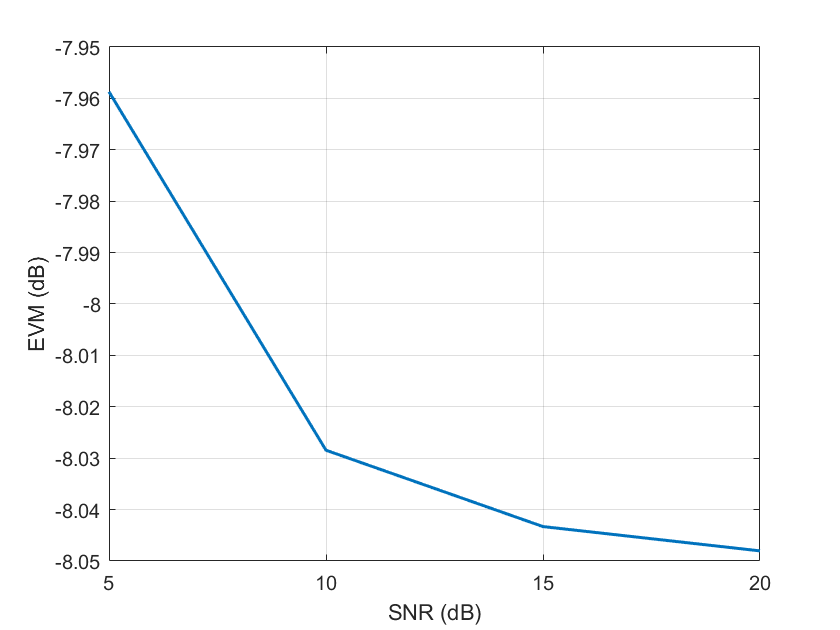
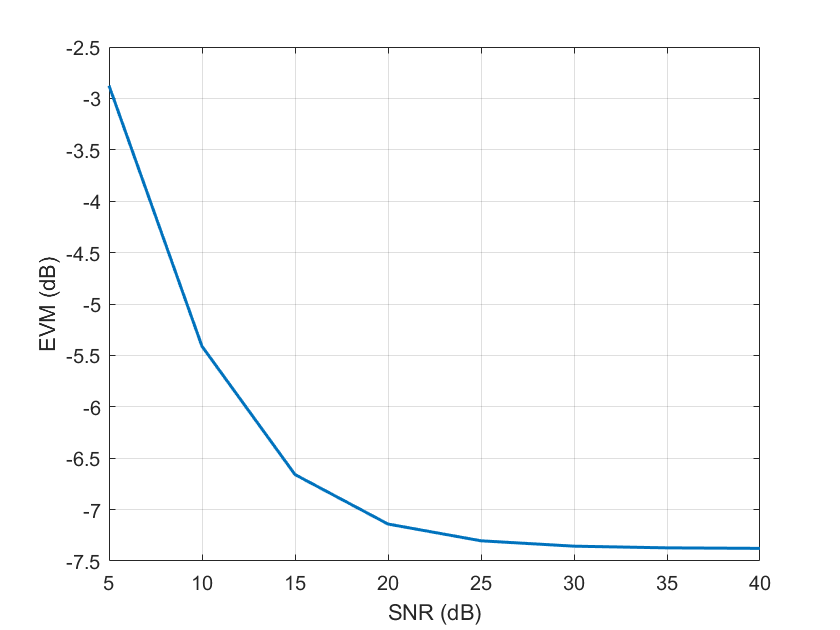
Throwing some shit in question 5

diff --git a/5/lab_report.tex b/5/lab_report.tex
@@ -249,24 +249,45 @@ Next, we analyze the performance of the timing compensation logic when we apply 
 \end{figure}
 
 \noindent Before timing compensation, the constellation does not match closely with our expectations for BPSK modulation. However, after timing compensation, all the received data is clustered around $\pm 1$ as expected.
- 
+
+Next, we plot the error vector magnitude (EVM) against SNR and include the results in Figure \ref{fig::evm_vs_snr}. Examining the plot, we see that the error magnitude vector fall linearly with SNR for low values of SNR before converging to a final value.
 \begin{figure}[H]
 	\centerline{\fbox{\includegraphics[width=0.5\textwidth]{evm_vs_snr.png}}}
 	\caption{Plot of EVM vs SNR}
 	\label{fig::evm_vs_snr}
 \end{figure}
 
+\noindent We can perform similar analysis with a phase offset instead of a timing offset. For this analysis, we use a phase error of $\pi/8$ radians. Our results are illustrated in Figure \ref{fig::evm_vs_snr_with_phase_offset}.
+
 \begin{figure}[H]
 	\centerline{\fbox{\includegraphics[width=0.5\textwidth]{evm_vs_snr_with_phase_offset.png}}}
-	\caption{Plot of EVM vs SNR with Symbol Phase Offset}
+	\caption{Plot of EVM vs SNR for $\protect\pi/8$ Phase Offset}
 	\label{fig::evm_vs_snr_with_phase_offset}
 \end{figure}
+
+\noindent Compared to Figure \ref{fig::evm_vs_snr}, the EVM is almost 10 dB worse in steady state. This occurs because the phase error has become the limiting factor for the EVM measurement. With an added phase offset of $\pi/8$, we again display the constellation before and after modulation.
 
 \begin{figure}[H]
 	\centerline{\includegraphics[width=0.8\textwidth]{constellations_with_timing_correction_phase_offset.png}}
 	\caption{Constellations with Phase Offset Before and After Timing Compensation}
 	\label{fig::constellations_with_timing_correction_phase_offset}
 \end{figure}
+
+\noindent Examining Figure \ref{fig::constellations_with_timing_correction_phase_offset}, we see that the timing compensation correctly clusters each of the received symbols. However, the symbols have been rotated due to phase error. To account for the phase error, we can use differential modulation (DBPSK vs BPSK). For our DBPSK demodulation, we use the phase difference between adjacent samples to determine the transmitted symbols. We leverage the following equation to find the phase different between samples:
+
+\begin{equation}
+	y[n] = A[n]e^{j\phi[n]}*e^{-j\phi[n-1]}
+\end{equation}
+
+\noindent Then, we compute the resulting EVM, which is plotted against SNR in Figure \ref{fig::evm_vs_snr_dbpsk}.
+
+\begin{figure}[H]
+	\centerline{\fbox{\includegraphics[width=0.5\textwidth]{evm_vs_snr_dbpsk.png}}}
+	\caption{EVM vs SNR for DBPSK Modulation with a $\protect\pi/8$ Phase Offset}
+	\label{fig::evm_vs_snr_dbpsk}
+\end{figure}
+
+Compared to Figure \ref{fig::constellations_with_timing_correction_phase_offset}, we see that the EVM has substantially improved. However, it does deviate slightly from our EVM plots when we use BPSK with no phase offset. This occurs because noisy samples are used to find phase differences.
 
 \section{Adding Pieces Together}
 
